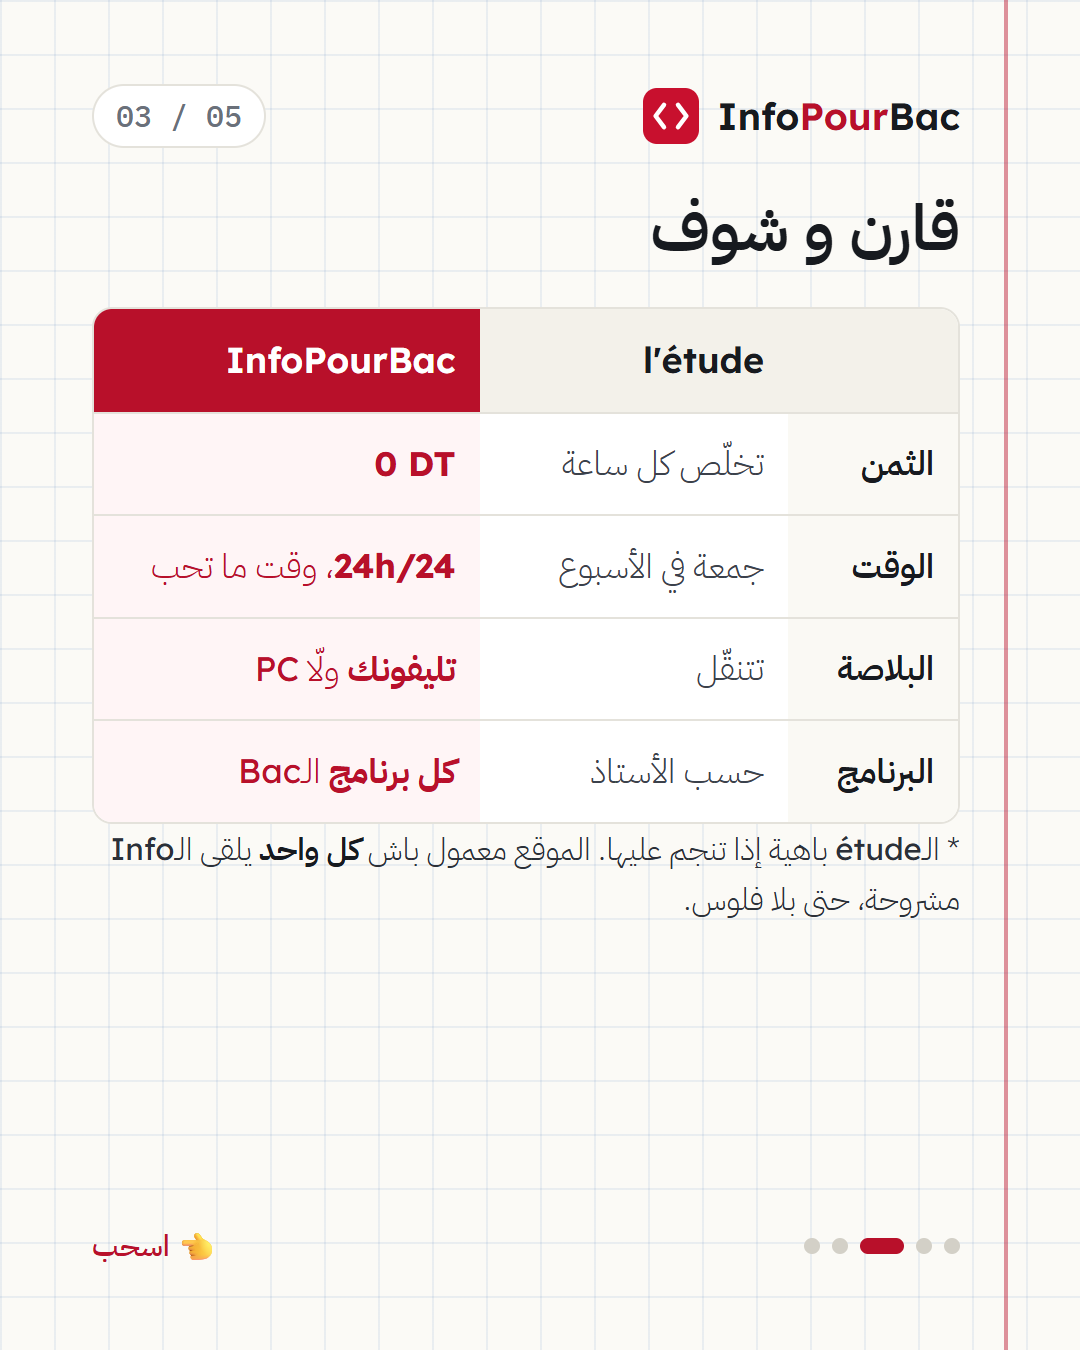
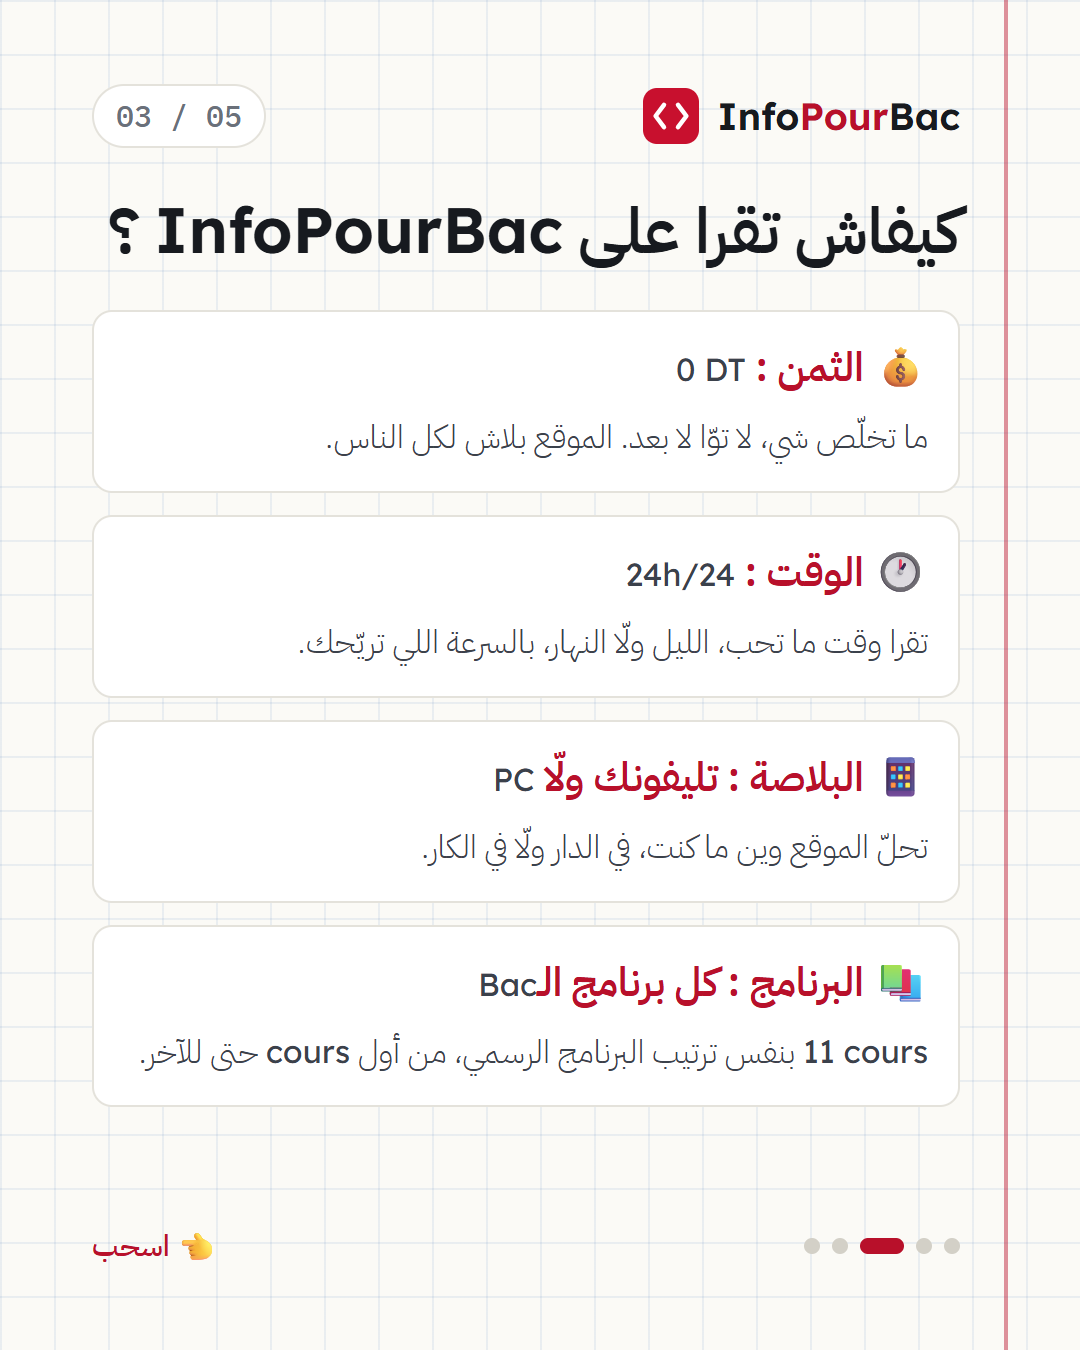
Slide 3 of bellech carousel: plain info cards instead of comparison

diff --git a/carousels/make-ar.js b/carousels/make-ar.js
@@ -48,13 +48,11 @@ const CAROUSELS = [
           <div><i>✓</i><div><b>الخوارزميات و الأمثلة</b><span>${L('Algorithme')} و ${L('Python')} جنب بعضهم، مع الحلول.</span></div></div>
           <div><i>✓</i><div><b>قاموس المصطلحات</b><span>كل كلمة بالفرنسية مشروحة بالدارجة.</span></div></div>
           <div><i>✓</i><div><b>ما فيهاش ${L('version premium')}</b><span>ما تلقاش ${L('cours')} مسكّر ولّا « ادفع باش تكمّل ».</span></div></div></div>` },
-      { title: `قارن و شوف`, body: `<div class="cmp">
-          <div class="h"></div><div class="h">${L("l'étude")}</div><div class="h red">${L('InfoPourBac')}</div>
-          <div class="k">الثمن</div><div><span>تخلّص كل ساعة</span></div><div class="red"><span><b>${L('0 DT')}</b></span></div>
-          <div class="k">الوقت</div><div><span>جمعة في الأسبوع</span></div><div class="red"><span><b>${L('24h/24')}</b>، وقت ما تحب</span></div>
-          <div class="k">البلاصة</div><div><span>تتنقّل</span></div><div class="red"><span><b>تليفونك</b> ولّا ${L('PC')}</span></div>
-          <div class="k">البرنامج</div><div><span>حسب الأستاذ</span></div><div class="red"><span><b>كل برنامج</b> الـ${L('Bac')}</span></div></div>
-          <p class="note">* الـ${L("étude")} باهية إذا تنجم عليها. الموقع معمول باش <b>كل واحد</b> يلقى الـ${L('Info')} مشروحة، حتى بلا فلوس.</p>` },
+      { title: `كيفاش تقرا على ${L('InfoPourBac')} ؟`, body: `<div class="cards3">
+          <div><b>💰 الثمن : ${L('0 DT')}</b><span>ما تخلّص شي، لا توّا لا بعد. الموقع بلاش لكل الناس.</span></div>
+          <div><b>🕐 الوقت : ${L('24h/24')}</b><span>تقرا وقت ما تحب، الليل ولّا النهار، بالسرعة اللي تريّحك.</span></div>
+          <div><b>📱 البلاصة : تليفونك ولّا ${L('PC')}</b><span>تحلّ الموقع وين ما كنت، في الدار ولّا في الكار.</span></div>
+          <div><b>📚 البرنامج : كل برنامج الـ${L('Bac')}</b><span>${L('11 cours')} بنفس ترتيب البرنامج الرسمي، من أول ${L('cours')} حتى للآخر.</span></div></div>` },
       { title: `علاش بلاش ؟`, body: `<p>خاطر الـ<b>${L('Info')}</b> ماهيش صعيبة، أما غالية باش تتعلّمها. تلميذ في تونس ما يلزمش <b>يطيح في الـ${L('Bac')}</b> خاطر ما عندوش فلوس باش يعمل ${L("étude")}.</p>
           <p>الموقع معمول من تونسي، لتلامذة تونس. <b>لا إشهار، لا بيع ${L('cours')}، لا جمع معلومات.</b></p>
           <div class="tipline"><b>الهدف :</b> أي تلميذ ${L('Bac scientifique')}، في أي ولاية، عندو نفس الـ${L('cours')} المشروحة بالساهل.</div>` },
